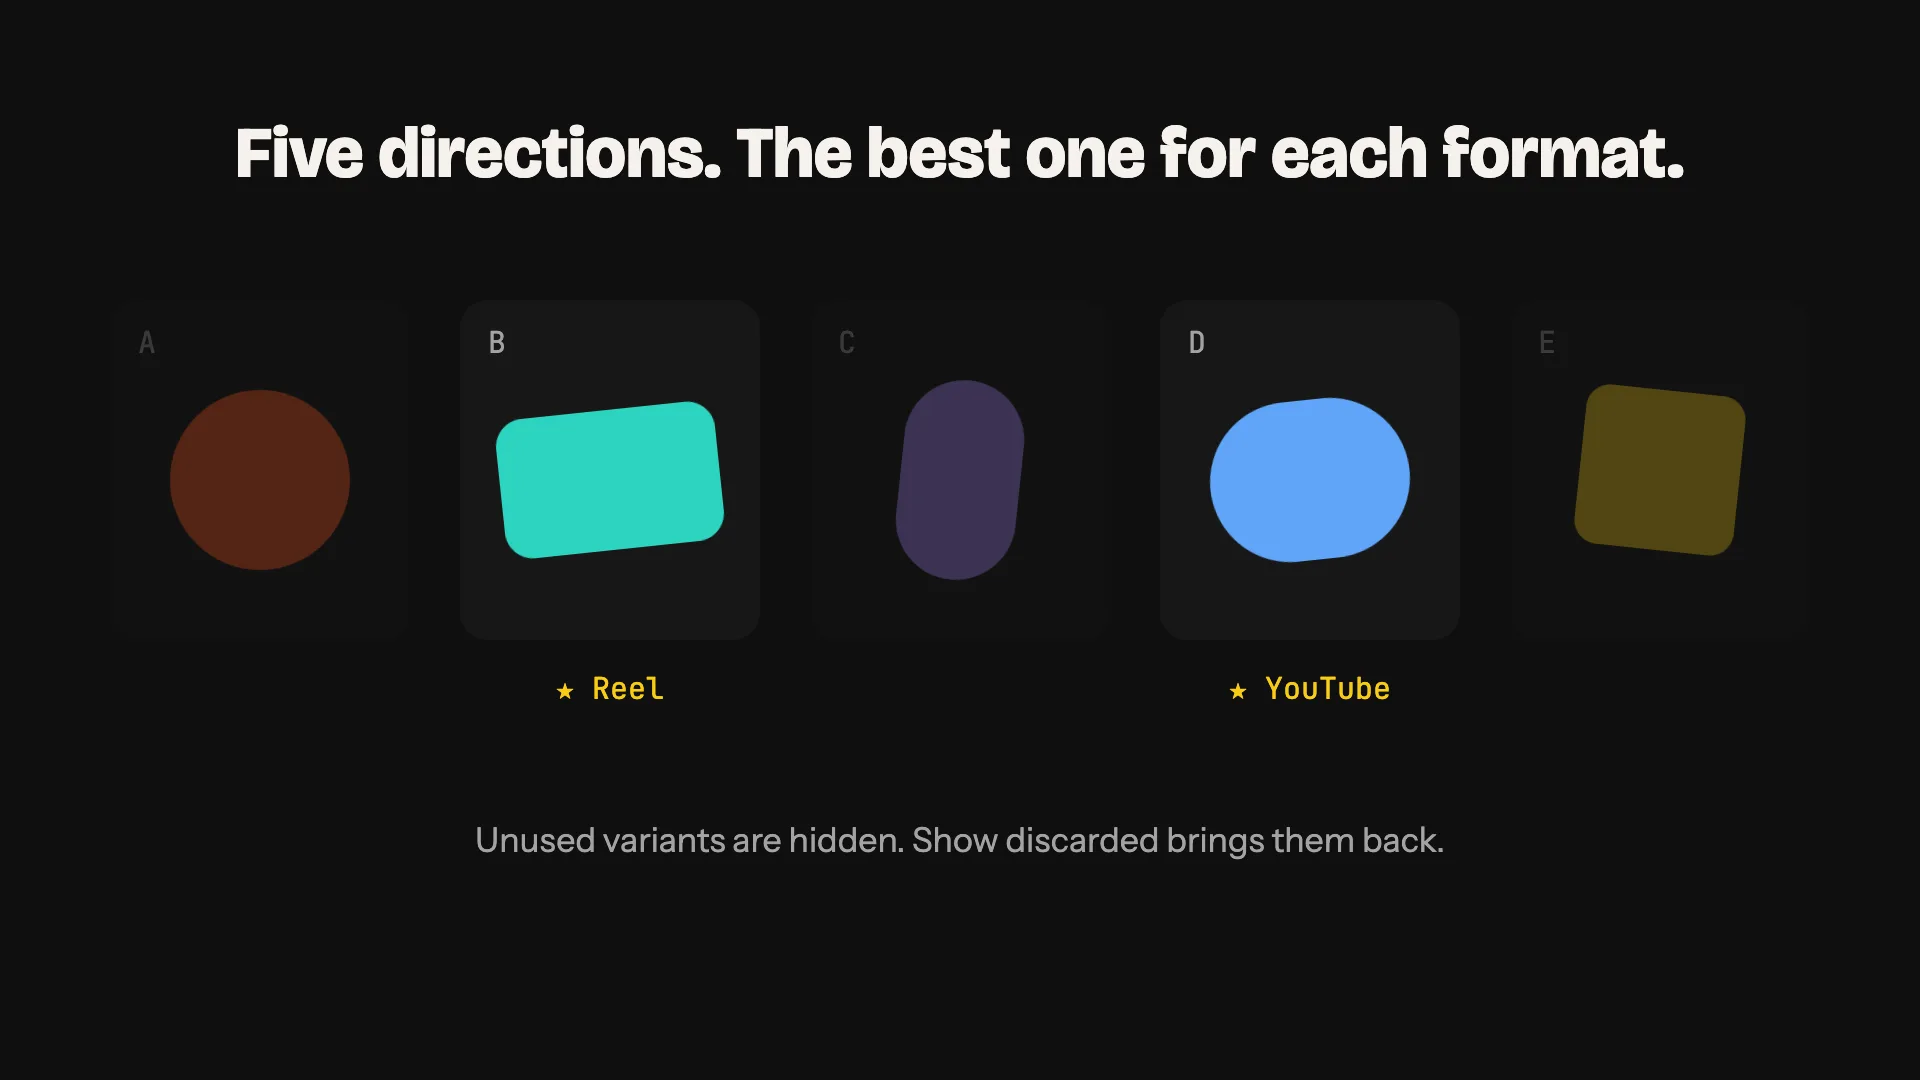
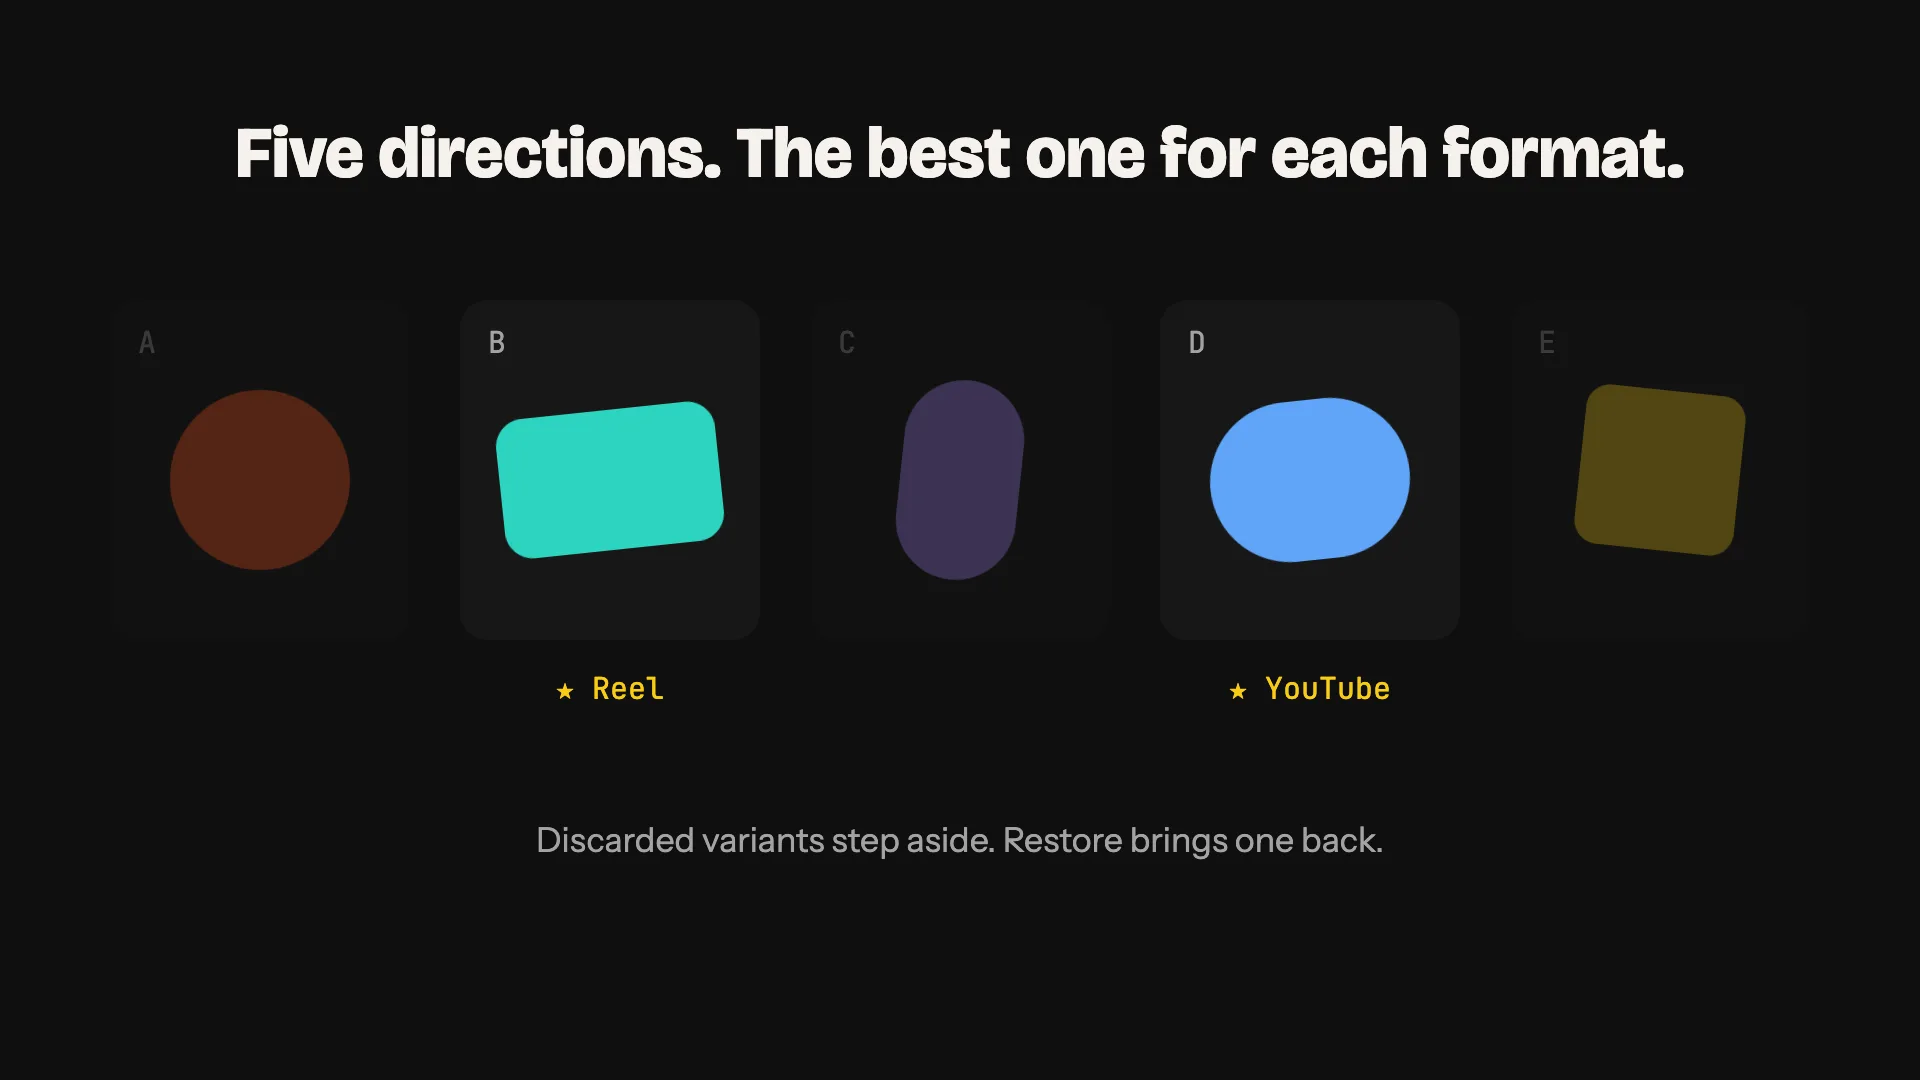
docs(site): align the variants block with the phase 15 README
Block 9 now follows the README "Creative variants" section: the chat
talks to one variant or to all, ★ per format across variants, group
export, Discard and Restore. The caption and poster use Restore (the
discarded list is greyed out, not hidden) and the link points to
#creative-variants.

Claude-Session: https://claude.ai/code/session_01KxKL6zuy8dbnJieqN1eCNg

Changed region(s): [[0.25, 0.7639, 0.75, 0.7944]]

diff --git a/site/src/index.html b/site/src/index.html
@@ -236,7 +236,7 @@
       </div>
     </article>
 
-    <!-- source: docs/superpowers/specs/2026-10-16-motion-studio-phase15-variants-design.md -->
+    <!-- source: README "Creative variants" -->
     <article class="feature" id="variants" data-category="formats">
       <div class="wrap feature__inner">
         <figure class="comp comp--16x9" data-composition="variants" data-poster-time="6">
@@ -245,9 +245,9 @@
         <div class="feature__text">
           <p class="eyebrow">{ variants }</p>
           <h2>Five directions at once.</h2>
-          <p>Ask for up to five variants of a creative, each a coherent direction across every format, with its own chat, versions and editor.</p>
-          <p class="muted">Pick the best one for each format, even from different variants, and keep the discarded ones out of sight.</p>
-          <a class="btn btn--small" href="https://github.com/Aleloca/motion-studio#variants-duplicate-formats-languages-store-pack">Variants <span class="arrow" aria-hidden="true">→</span></a>
+          <p>Ask for up to five variants of a creative, each a different direction for the same brief, across every format. Talk to one variant in the chat, or to all of them at once.</p>
+          <p class="muted">Star the best version of each format, even from different variants, and export the group. Discard the rest; Restore brings one back.</p>
+          <a class="btn btn--small" href="https://github.com/Aleloca/motion-studio#creative-variants">Variants <span class="arrow" aria-hidden="true">→</span></a>
         </div>
       </div>
     </article>

diff --git a/docs/superpowers/specs/2026-10-16-github-page-design.md b/docs/superpowers/specs/2026-10-16-github-page-design.md
@@ -100,9 +100,9 @@ Blocchi a due colonne, alternati sinistra/destra, separati da hairline. Da una p
 6. **Talk to the agent while it works**: coda, Stop, Stop and redirect, messaggi live.
 7. **Local and versioned with git**: tutto sul tuo computer, ogni versione è un commit, export con nomi file a pattern.
 8. **Paid services, only when you say so**: immagini (OpenAI), voce (OpenAI, ElevenLabs), musica ed effetti (ElevenLabs), stock (Pexels, Unsplash). Conferma prima di ogni chiamata a pagamento; chiavi nel portachiavi, mai visibili all'agente.
-9. **Creative variants**: fino a 5 direzioni creative (A–E) per ogni creatività, ognuna coerente su tutti i formati. La scelta finale si fa per formato, anche mescolando varianti diverse; le varianti scartate si nascondono ("Show discarded").
-   - **L'utente ha chiesto di presentarle come già disponibili**, anche se la fase 15 è ancora in sviluppo (vedi §8).
-   - Fonte: `docs/superpowers/specs/2026-10-16-motion-studio-phase15-variants-design.md`.
+9. **Creative variants**: fino a 5 direzioni creative (A–E) per ogni creatività, ognuna coerente su tutti i formati. La scelta finale si fa per formato, anche mescolando varianti diverse; le varianti scartate escono dalla scelta ("Discard") e tornano con "Restore".
+   - L'utente aveva chiesto di presentarle come già disponibili; la fase 15 è su main da 385f898 (vedi §8).
+   - Fonte: README "Creative variants".
 
 Tutti i testi vengono dal README, da `README.it.md`, da `docs/` e dalle spec. Niente funzioni o numeri che lì non ci sono.
 
@@ -173,7 +173,7 @@ Repository, README, `docs/`, licenza MIT, il logo. Nessun tracker.
   - I file del logo si copiano **una volta** da `branding/` del checkout principale in `site/assets/` e si committano. Nessuno script contiene percorsi assoluti.
   - I font (OFL) si scaricano una volta da Google Fonts in `site/assets/fonts/`, self-hosted, con le licenze accanto. A runtime la pagina non contatta Google.
 - **Link (mia scelta):** puntano a `https://github.com/Aleloca/motion-studio` (ref `main`) e alle ancore del README; il builder verifica che ogni ancora esista.
-- **Varianti (mia scelta):** i testi del blocco 9 vengono dalla spec della fase 15 al commit di oggi; se la fase 15 cambia, li aggiorna l'orchestratore al merge.
+- **Varianti (mia scelta):** i testi del blocco 9 vengono dalla sezione "Creative variants" del README di main dopo il merge della fase 15 (385f898).
 
 - **Struttura:**
   - `site/` con HTML, CSS e JS semplici;
@@ -206,7 +206,7 @@ Repository, README, `docs/`, licenza MIT, il logo. Nessun tracker.
 - **Fine lavoro:**
   - trailer dei commit come nel brief;
   - prima della consegna, grep del diff per il percorso della home locale e l'e-mail dell'utente: nessun risultato ammesso.
-- **Nota per l'orchestratore:** il blocco 9 (varianti) descrive una funzione della fase 15 non ancora rilasciata, e la pagina la presenta come disponibile per scelta esplicita dell'utente. Il merge del sito andrebbe fatto insieme o dopo la fase 15.
+- **Nota per l'orchestratore:** la fase 15 è su main (385f898) ed è stata unita in questo branch; il blocco 9 è allineato al README.
 
 ## 9. Lasciato al builder
 
